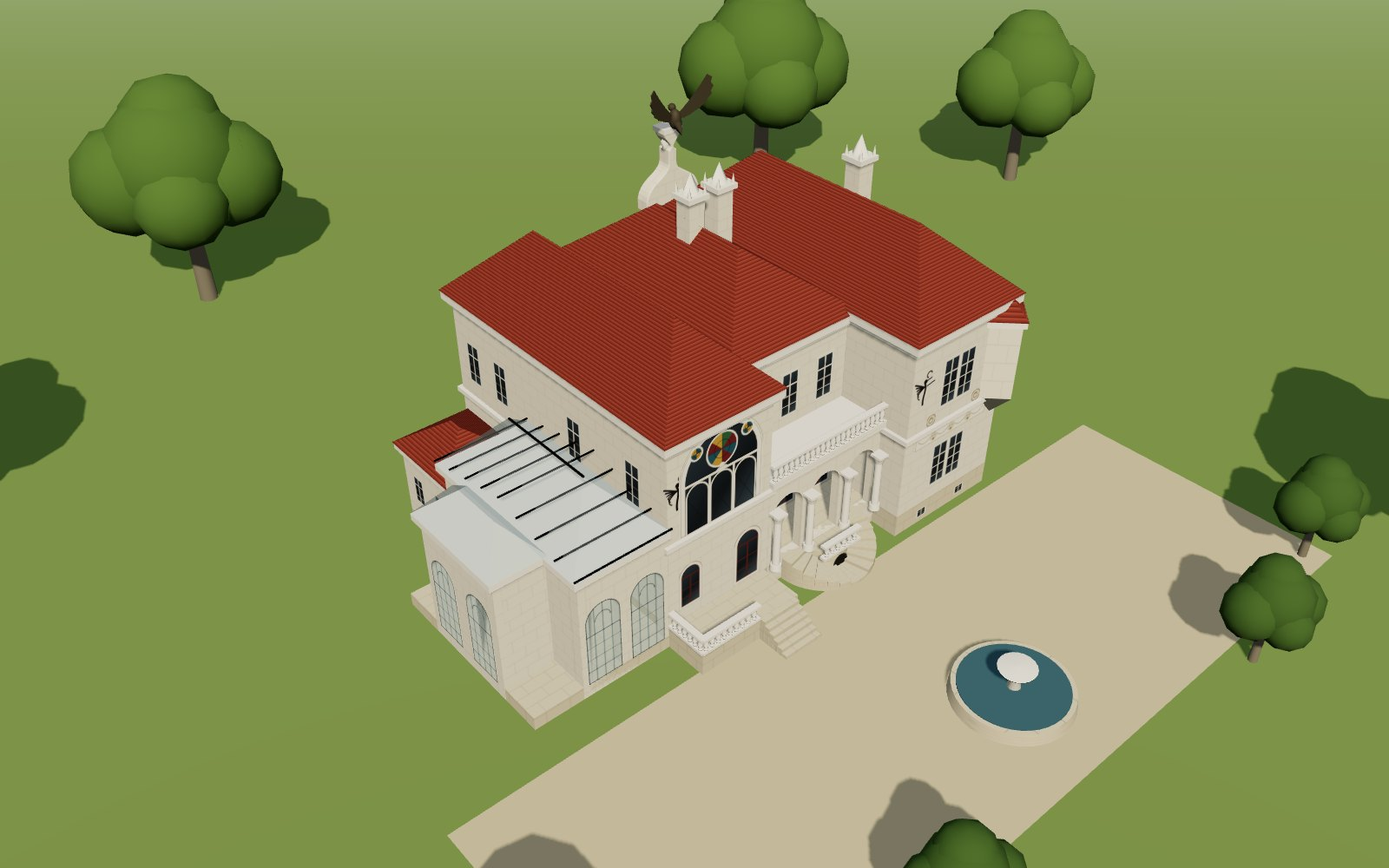
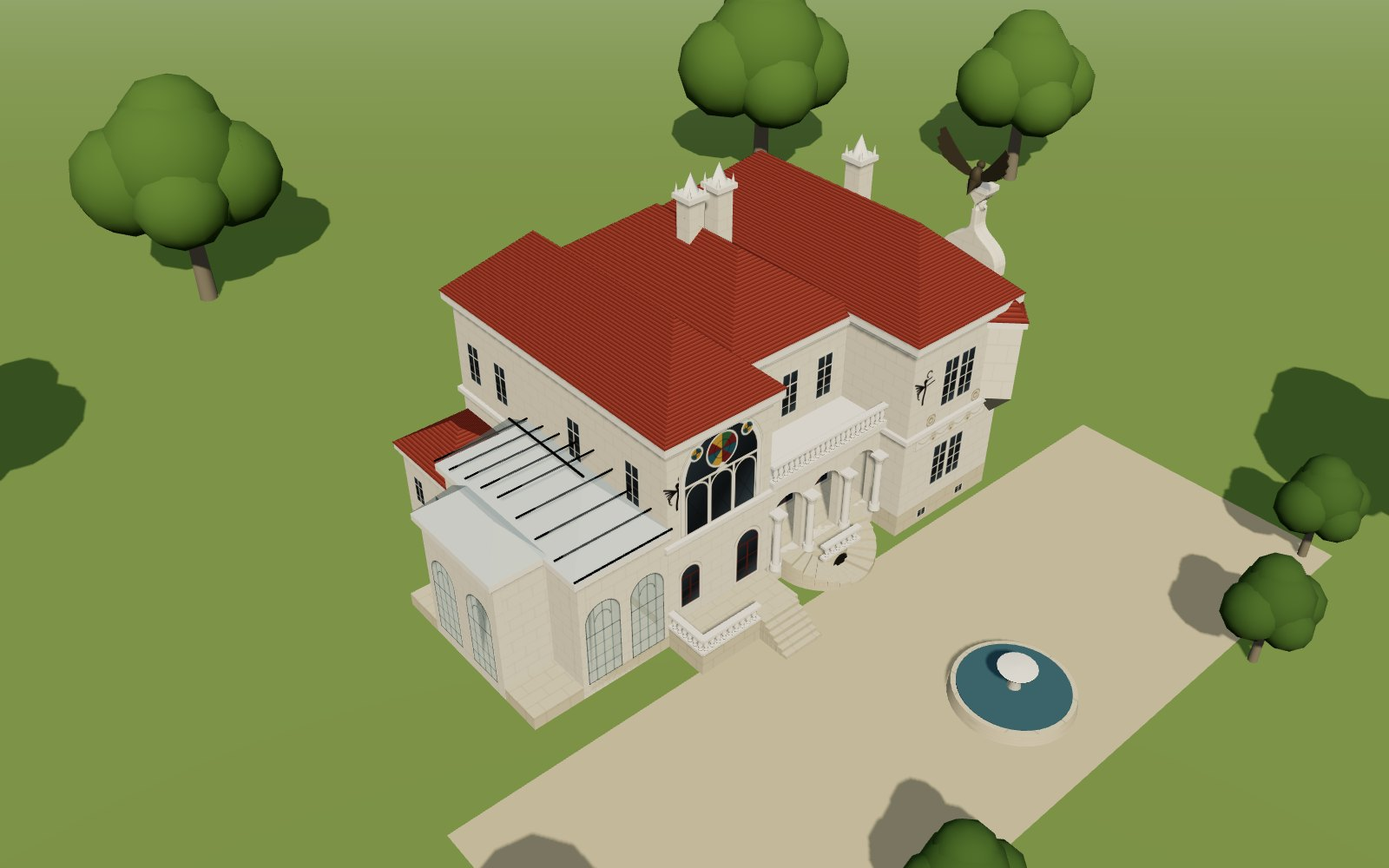
Spitzer Castle model: the turul gable and the two-column corner loggia on the end wall opposite the winter garden (west, per Kosta's photo; kastelyok.com agrees)
Claude-Session: https://claude.ai/code/session_01BcBFRJTimmEHvL6KXhfjLA

Changed region(s): [[0.4375, 0.093, 0.5312, 0.248], [0.6875, 0.186, 0.75, 0.31], [0.6562, 0.155, 0.6875, 0.186]]

diff --git a/static/js/spicer3d.js b/static/js/spicer3d.js
@@ -275,7 +275,8 @@ function build() {
   M.roof.map.repeat.set(1, 1);
 
   /* Footprint from the ground- and first-floor plans in Radosavljević (FTN Novi Sad, 2019), read at about
-     40 px = 1 m: x runs west -> east, z = 0 is the north (entrance) front, the service rooms lie to the south. */
+     40 px = 1 m. The plans are drawn with north at the bottom, so here z = 0 is the north (entrance) front, the service
+     rooms lie to the south, -x is east (winter garden) and +x is west (the turul end). */
 
   /* ground, forecourt, fountain, park trees */
   const ground = add(new THREE.Mesh(new THREE.CircleGeometry(420, 64), new THREE.MeshStandardMaterial({ color: '#7d9550', roughness: 1 })));
@@ -290,7 +291,7 @@ function build() {
 
   const ZS = -15.4, EAVE = 10.8;
 
-  /* west: the great hall, double-height, with the tracery window on the north front */
+  /* the great hall (east part), double-height, with the tracery window on the north front */
   box(-9.5, -3.75, 0, PL, ZS, 0, M.plinth); box(-9.5, -3.75, PL, EAVE + .3, ZS, 0);
   cornice(-9.5, -3.75, ZS, 0, EAVE + .3); hipRoof(-9.9, -3.35, ZS - .4, .4, EAVE + .3, 3.2);
   box(-9.7, -3.55, FL1 - .25, FL1, ZS - .2, .2, M.trim);
@@ -335,20 +336,43 @@ function build() {
   decal(doorDarkArch, 'dark', 128, .9, .8, 'n', sc.r0, sc.x, 0);
   balustrade(sc.x - 1.2, 1.3, sc.x + 1.0, 1.3, PL, .8);
 
-  /* east: the right wing, a little forward, with the frieze, iron dragons and the corner oriel */
-  box(3.4, 10, 0, PL, ZS, 1.5, M.plinth); box(3.4, 10, PL, FL1, ZS, 1.5);
-  box(3.4, 10, FL1, EAVE + .2, ZS + 2.6, 1.5); box(3.4, 7.0, FL1, EAVE + .2, ZS, ZS + 2.6);   // the upper floor leaves room for the corner loggia
-  box(9.6, 10, FL1, EAVE + .2, ZS + 2.3, ZS + 2.6);
-  cornice(3.4, 10, ZS, 1.5, EAVE + .2); hipRoof(3.0, 10.4, ZS - .4, 1.9, EAVE + .2, 3.4);
-  box(3.2, 10.2, FL1 - .25, FL1, ZS - .2, 1.7, M.trim);
+  /* the west wing, a little forward. Its end wall (opposite the winter garden) carries the
+     curved gable with the turul and, at 1st-floor level, an open loggia with two columns; the southern part of
+     that wall is set back a little (plans). */
+  const XE = 10, XR = 9.25, ZG = -8.6;
+  const ZL = ZS + 3.0;                                                       // north end of the corner loggia
+  box(3.4, XE, 0, PL, ZG, 1.5, M.plinth); box(3.4, XR, 0, PL, ZS, ZG, M.plinth);
+  box(3.4, XE, PL, FL1, ZG, 1.5); box(3.4, XR, PL, FL1, ZS, ZG);
+  box(3.4, XE, FL1, EAVE + .2, ZG, 1.5); box(3.4, XR, FL1, EAVE + .2, ZL, ZG);
+  box(3.4, 7.6, FL1, EAVE + .2, ZS, ZL);
+  cornice(3.4, XE, ZS, 1.5, EAVE + .2); hipRoof(3.0, 10.4, ZS - .4, 1.9, EAVE + .2, 3.4);
+  box(3.2, 10.2, FL1 - .25, FL1, ZG, 1.7, M.trim); box(3.2, XR + .2, FL1 - .25, FL1, ZS - .2, ZG, M.trim);
   decal(WP, 'wp', 512, 2.4, 2.6, 'n', 1.5, 6.6, PL + .7);
   decal(WP, 'wp', 512, 2.4, 2.8, 'n', 1.5, 6.6, FL1 + .7);
   decal(friezeDraw, 'frieze', 1024, 5.0, .7, 'n', 1.5, 6.6, FL1 - 1.05);
   for (const x of [5.0, 8.2]) decal(medallionDraw, 'med', 128, .6, .6, 'n', 1.5, x, FL1 + .05);
   decal(ironDraw, 'iron', 256, 1.6, 1.9, 'n', 1.5, 4.2, 7.3);
   for (const x of [5.2, 8.0]) decal(W1, 'w1', 256, .7, .45, 'n', 1.5, x, .35);
-  for (const z of [-1.6, -8.6, -12.4]) { decal(W1, 'w1', 256, 1.2, 2.4, 'e', 10, z, PL + .8); decal(W1, 'w1', 256, 1.2, 2.4, 'e', 10, z, FL1 + .8); }
-  decal(ironDraw, 'iron', 256, 1.5, 1.8, 'e', 10, -5.1, 7.3);
+  // east loggia
+  box(7.6, 7.65, FL1 + .3, EAVE - .4, ZS, ZL, M.dark);
+  box(7.6, XR + .1, FL1, FL1 + .3, ZS - .1, ZL, M.trim); box(7.6, XR + .1, EAVE - .45, EAVE + .2, ZS - .1, ZL, M.trim);
+  for (const z of [ZS + 1.5, ZS + .25]) column(XR - .3, z, FL1 + .3, EAVE - .45, .19);
+  decal(WH, 'wh', 256, 1.0, 2.4, 'e', 7.65, ZS + 1.6, FL1 + .5);
+  // windows and the oculus between the gable bay and the loggia
+  decal(W1, 'w1', 256, 1.1, 2.4, 'e', XE, -5.4, FL1 + .8); decal(WA, 'wa', 256, 1.1, 2.2, 'e', XE, -5.4, PL + .8);
+  { const oc = add(new THREE.Mesh(new THREE.TorusGeometry(.42, .1, 10, 28), M.trim)); oc.position.set(XR + .05, 8.0, -9.4); oc.rotation.y = Math.PI / 2;
+    const od = add(new THREE.Mesh(new THREE.CircleGeometry(.42, 28), M.dark)); od.position.set(XR + .03, 8.0, -9.4); od.rotation.y = Math.PI / 2; }
+  decal(W1, 'w1', 256, 1.1, 2.4, 'e', XR, -11.0, FL1 + .8); decal(WA, 'wa', 256, 1.1, 2.2, 'e', XR, -10.2, PL + .8);
+  decal(W1, 'w1', 256, 1.1, 2.3, 'e', XR, ZS + 1.4, PL + .8);
+  // the gable bay with the turul, built facing -z in a local frame and turned to face east
+  { const g = new THREE.Group(), main = scene; scene = g;
+    box(-1.6, 1.6, 0, PL, -1.0, 0, M.plinth); box(-1.6, 1.6, PL, EAVE - .2, -1.0, 0);
+    box(-1.85, 1.85, EAVE - .6, EAVE - .2, -1.25, 0, M.trim); box(-1.75, 1.75, FL1 - .25, FL1, -1.15, 0, M.trim);
+    const top = flemishGable(-1.6, 1.6, -1.0, EAVE - .2, .7, 1);
+    turul(0, top, -.75, Math.PI);
+    decal(WH, 'wh', 256, 1.1, 2.5, 's', -1.0, 0, FL1 + .7); decal(WA, 'wa', 256, 1.2, 2.3, 's', -1.0, 0, PL + .7);
+    decal(slitDraw, 'slit', 64, .4, 1.2, 's', -1.0, 0, EAVE + .9);
+    scene = main; g.rotation.y = -Math.PI / 2; g.position.set(XE, 0, -2.0); scene.add(g); }
   const ori = new THREE.Group(); scene.add(ori); ori.position.set(9.6, 0, 1.1); ori.rotation.y = Math.PI / 4;
   const ob = new THREE.Mesh(new THREE.BoxGeometry(2.1, 4.0, 2.1), M.wall); ob.position.y = FL1 + 2.0; ob.castShadow = true; ori.add(ob);
   const oc = new THREE.Mesh(new THREE.BoxGeometry(2.4, .35, 2.4), M.trim); oc.position.y = FL1 + 4.15; ori.add(oc);
@@ -357,28 +381,17 @@ function build() {
   { const t = texCache.get('w1') || canvasTex(256, 512, W1); texCache.set('w1', t);
     for (const r of [0, Math.PI / 2]) { const p = new THREE.Mesh(new THREE.PlaneGeometry(1.1, 2.4), new THREE.MeshStandardMaterial({ map: t, transparent: true })); p.rotation.y = r; p.position.set(Math.sin(r) * 1.07, FL1 + 2.1, Math.cos(r) * 1.07); ori.add(p); } }
 
-  /* south front: the bay with the curved gable and the turul, the corner loggia with two columns */
-  box(3.0, 6.4, 0, PL, ZS - 1.1, ZS, M.plinth); box(3.0, 6.4, PL, EAVE - .2, ZS - 1.1, ZS);
-  box(2.75, 6.65, EAVE - .6, EAVE - .2, ZS - 1.35, ZS, M.trim);
-  const top = flemishGable(3.0, 6.4, ZS - 1.1, EAVE - .2, .7, 1);
-  turul(4.7, top, ZS - .85, Math.PI);
-  decal(WH, 'wh', 256, 1.2, 2.5, 's', ZS - 1.1, 4.7, FL1 + .7); decal(WA, 'wa', 256, 1.3, 2.4, 's', ZS - 1.1, 4.7, PL + .6);
-  decal(slitDraw, 'slit', 64, .45, 1.3, 's', ZS - 1.1, 4.7, EAVE + .9);
-  box(7.0, 9.6, FL1 + .3, EAVE - .3, ZS + 2.55, ZS + 2.6, M.dark);                // recess of the loggia
-  for (const x of [7.7, 9.3]) column(x, ZS + .3, FL1 + .3, EAVE - .5, .19);
-  box(7.0, 10, FL1, FL1 + .3, ZS - .1, ZS + 2.6, M.trim); balustrade(7.1, ZS + .05, 9.9, ZS + .05, FL1 + .3, .9);
-  box(7.0, 10, EAVE - .5, EAVE + .2, ZS - .1, ZS + 2.6, M.trim);
-  for (const x of [7.6, 9.1]) decal(WH, 'wh', 256, 1.0, 2.4, 's', ZS + 2.6, x, FL1 + .5);
-  for (const x of [7.5, 9.0]) decal(WA, 'wa', 256, 1.2, 2.3, 's', ZS, x, PL + .6);
+  /* south front (service side) */
+  for (const x of [5.0, 7.0, 8.7]) { decal(W1, 'w1', 256, 1.0, 2.0, 's', ZS, x, PL + .8); decal(W1, 'w1', 256, 1.1, 2.3, 's', ZS, x, FL1 + .8); }
   const ocul = add(new THREE.Mesh(new THREE.TorusGeometry(.5, .11, 10, 28), M.trim)); ocul.position.set(1.9, 8.4, ZS - .05);
   chimney(-.5, -9, EAVE + 1.2, EAVE + 4.4); chimney(1.2, -9, EAVE + 1.2, EAVE + 4.4); chimney(7.2, -6, EAVE + 1.5, EAVE + 5.0);
 
-  /* kitchen wing: single-storey, south-west */
+  /* kitchen wing: single-storey, south-east */
   box(-13.4, -9.5, 0, .6, -14.9, -10.6, M.plinth); box(-13.4, -9.5, .6, 4.6, -14.9, -10.6);
   cornice(-13.4, -9.5, -14.9, -10.6, 4.6, .25, .35); hipRoof(-13.7, -9.5, -15.2, -10.3, 4.6, 1.4);
   for (const z of [-11.8, -13.7]) decal(W1, 'w1', 256, .9, 1.6, 'w', -13.4, z, 1.6);
 
-  /* winter garden: single-storey glass house on the west, narrower than the house, with a bay at its far end */
+  /* winter garden: single-storey glass house on the east, narrower than the house, with a bay at its far end */
   const wgH = 6.4;
   const gA = (n, len, w) => Array.from({ length: n }, (_, i) => ({ x: len * (i + .5) / n, w, y0: .7, spring: 4.0 }));
   box(-16.6, -9.5, 0, .7, -9.6, 0, M.plinth);
@@ -404,11 +417,11 @@ function build() {
 /* ---------------------------------------------------------------- viewer */
 const VIEWS = {
   front: [[-1, 9, 42], [-2, 6, -6]],
-  back: [[10, 10, -52], [-1, 7, -8]],
+  back: [[44, 11, -12], [8, 7, -6]],
   air: [[-34, 40, 30], [-2, 4, -7]],
   west: [[-50, 10, 6], [-10, 5, -6]],
   east: [[44, 11, 0], [8, 6, -7]],
-  turul: [[10, 15, -32], [4.7, 13, -16]],
+  turul: [[27, 15, -4], [10.5, 13, -2.0]],
 };
 export function init(el) {
   const canvas = el.querySelector('canvas');

diff --git a/content/ru/nearby/spicer-castle-reconstruction.md b/content/ru/nearby/spicer-castle-reconstruction.md
@@ -30,9 +30,9 @@ photo: spicer-reconstruction-front
 
 - Планы в работе ФТН показывают дворец в нынешнем виде, начерченный для проекта приспособления, так что в них могут быть и поздние переделки. Мы снимали размеры в масштабе около 40 пикселей на метр, поэтому стены могут сместиться на полметра; высоты оценены по фотографиям.
 - Вальмовые крыши и красная черепица типичны для вилл того времени, но точная форма крыш неизвестна.
-- Зимний сад: по планам это одноэтажное крыло, у́же самого дворца, с эркером в торце. Известно, что он был застеклён и открывался из зала; арки и стеклянная крыша в модели — допущение (проект приспособления предлагает новую стеклянную крышу, то есть сейчас её нет). Маленькая пристройка с западной стороны, вероятно времён социализма, в модель не включена.
+- Зимний сад: по планам это одноэтажное крыло, у́же самого дворца, с эркером в торце. Известно, что он был застеклён и открывался из зала; арки и стеклянная крыша в модели — допущение (проект приспособления предлагает новую стеклянную крышу, то есть сейчас её нет). Маленькая пристройка к его торцу, вероятно времён социализма, в модель не включена.
 - Цвета витражей, переплёты окон, фонтан перед фасадом и деревья добавлены для наглядности.
-- Magyar Szó пишет, что турул смотрит на север, к Дунаю, но на фотографиях он стоит со стороны парка, напротив северного входного фасада, рядом с лоджией с двумя колоннами. Модель следует фотографиям.
+- Magyar Szó пишет, что турул смотрит на север, к Дунаю, но на фотографиях он стоит над западной торцевой стеной, напротив зимнего сада, а рядом угловая лоджия с двумя колоннами; kastelyok.com тоже помещает его на западный фасад ([kastelyok.com](https://www.kastelyok.com/adatlap.php?details=8061)). Модель следует фотографиям.
 
 {{< photos "spicer-reconstruction-air spicer-reconstruction-back" >}}
 

diff --git a/content/cyr/nearby/spicer-castle-reconstruction.md b/content/cyr/nearby/spicer-castle-reconstruction.md
@@ -32,9 +32,9 @@ photo: spicer-reconstruction-front
 
 - Планови у раду са ФТН-а приказују дворац какав је данас, нацртан за пројекат адаптације, па могу да садрже и касније измене. Очитали смо их у размери од око 40 пиксела на метар, па зидови могу да одступају за пола метра; висине су процењене по фотографијама.
 - Четвороводни кровови и црвени цреп типични су за виле тог доба, али тачан облик кровова није познат.
-- Зимска башта: према плановима то је приземно крило, уже од куће, са еркером на крају. Зна се да је била застакљена и да се отварала из хола; лукови и стаклени кров у моделу су претпоставка (пројекат адаптације предлаже нови стаклени кров, дакле данас га нема). Мала просторија дозидана уз њу са западне стране, вероватно у социјализму, изостављена је.
+- Зимска башта: према плановима то је приземно крило, уже од куће, са еркером на крају. Зна се да је била застакљена и да се отварала из хола; лукови и стаклени кров у моделу су претпоставка (пројекат адаптације предлаже нови стаклени кров, дакле данас га нема). Мала просторија дозидана уз њен крај, вероватно у социјализму, изостављена је.
 - Боје витража, пречке на прозорима, фонтана испред фасаде и дрвеће ту су да слика буде читљива.
-- Magyar Szó пише да турул гледа на север, ка Дунаву, али на фотографијама он стоји на страни према парку, насупрот северној улазној фасади, поред ложе са два стуба. Модел прати фотографије.
+- Magyar Szó пише да турул гледа на север, ка Дунаву, али на фотографијама он стоји изнад западног чеоног зида, насупрот зимској башти, а поред њега је угаона ложа са два стуба; и kastelyok.com га смешта на западну фасаду ([kastelyok.com](https://www.kastelyok.com/adatlap.php?details=8061)). Модел прати фотографије.
 
 {{< photos "spicer-reconstruction-air spicer-reconstruction-back" >}}
 

diff --git a/content/de/nearby/spicer-castle-reconstruction.md b/content/de/nearby/spicer-castle-reconstruction.md
@@ -30,9 +30,9 @@ Heute ist das Spitzer-Schloss eine Ruine mit zerbrochenen Fenstern, undichtem Da
 
 - Die Pläne in der FTN-Arbeit zeigen das Haus im heutigen Zustand, gezeichnet für ein Umnutzungsprojekt, sie können also spätere Umbauten enthalten. Wir haben sie mit etwa 40 Pixeln pro Meter gelesen, Wände können daher einen halben Meter abweichen; die Höhen sind nach Fotos geschätzt.
 - Walmdächer und rote Ziegel sind typisch für Villen jener Zeit, die genauen Dachformen sind aber unbekannt.
-- Der Wintergarten: Laut den Plänen ist er ein eingeschossiger Flügel, schmaler als das Haus, mit einem Erker am Ende. Bekannt ist, dass er verglast war und sich von der Halle aus öffnete; Bögen und Glasdach im Modell sind eine Annahme (das Umnutzungsprojekt schlägt ein neues Glasdach vor, heute hat er also keines). Ein kleiner Anbau an der Westseite, vermutlich aus sozialistischer Zeit, ist weggelassen.
+- Der Wintergarten: Laut den Plänen ist er ein eingeschossiger Flügel, schmaler als das Haus, mit einem Erker am Ende. Bekannt ist, dass er verglast war und sich von der Halle aus öffnete; Bögen und Glasdach im Modell sind eine Annahme (das Umnutzungsprojekt schlägt ein neues Glasdach vor, heute hat er also keines). Ein kleiner Anbau an seinem Ende, vermutlich aus sozialistischer Zeit, ist weggelassen.
 - Die Farben der Buntglasfenster, die Fenstersprossen, der Brunnen vor der Fassade und die Bäume dienen der Anschaulichkeit.
-- Magyar Szó schreibt, der Turul blicke nach Norden zur Donau, auf den Fotos steht er aber auf der Parkseite, gegenüber der nördlichen Eingangsfront, neben der Loggia mit zwei Säulen. Das Modell folgt den Fotos.
+- Magyar Szó schreibt, der Turul blicke nach Norden zur Donau, auf den Fotos steht er aber über der westlichen Stirnwand, dem Wintergarten gegenüber, daneben eine Eckloggia mit zwei Säulen; auch kastelyok.com verortet ihn an der Westfassade ([kastelyok.com](https://www.kastelyok.com/adatlap.php?details=8061)). Das Modell folgt den Fotos.
 
 {{< photos "spicer-reconstruction-air spicer-reconstruction-back" >}}
 

diff --git a/content/hu/nearby/spicer-castle-reconstruction.md b/content/hu/nearby/spicer-castle-reconstruction.md
@@ -30,9 +30,9 @@ Ma a Spitzer-kastély rom, betört ablakokkal, beázó tetővel és graffitikkel
 
 - Az FTN-dolgozat tervrajzai a mai állapotot mutatják egy átalakítási terv számára, így későbbi átépítések is lehetnek rajtuk. Méterenként körülbelül 40 képpontos léptékkel olvastuk le őket, a falak tehát fél méterrel is eltérhetnek; a magasságokat fényképekről becsültük.
 - A kontytetők és a piros cserép jellemzők a kor villáira, de a pontos tetőformák ismeretlenek.
-- A télikert: a tervrajzok szerint földszintes szárny, keskenyebb a háznál, a végén zárt erkéllyel. Tudjuk, hogy üvegezett volt és a csarnokból nyílt; ívei és üvegteteje a modellben feltételezés (az átalakítási terv új üvegtetőt javasol, ma tehát nincs teteje). A nyugati oldalához épített kis helyiséget, amely valószínűleg a szocializmus idején készült, kihagytuk.
+- A télikert: a tervrajzok szerint földszintes szárny, keskenyebb a háznál, a végén zárt erkéllyel. Tudjuk, hogy üvegezett volt és a csarnokból nyílt; ívei és üvegteteje a modellben feltételezés (az átalakítási terv új üvegtetőt javasol, ma tehát nincs teteje). A végéhez épített kis helyiséget, amely valószínűleg a szocializmus idején készült, kihagytuk.
 - A színes üvegek színei, az ablakosztások, a homlokzat előtti szökőkút és a fák a szemléletesség kedvéért kerültek a modellbe.
-- A Magyar Szó szerint a turul északra, a Duna felé néz, a fényképeken azonban a park felőli oldalon áll, az északi bejárati homlokzattal szemben, a kétoszlopos loggia mellett. A modell a fényképeket követi.
+- A Magyar Szó szerint a turul északra, a Duna felé néz, a fényképeken azonban a nyugati véghomlokzat fölött áll, a télikerttel szemben, mellette kétoszlopos sarokloggia; a kastelyok.com is a nyugati homlokzatra teszi ([kastelyok.com](https://www.kastelyok.com/adatlap.php?details=8061)). A modell a fényképeket követi.
 
 {{< photos "spicer-reconstruction-air spicer-reconstruction-back" >}}
 

diff --git a/content/en/nearby/spicer-castle-reconstruction.md b/content/en/nearby/spicer-castle-reconstruction.md
@@ -30,9 +30,9 @@ Today Spitzer Castle is a ruin with broken windows, a leaking roof and graffiti 
 
 - The plans in the FTN paper show the house as it is now, drawn for an adaptation project, so later changes may be in them. We read them at about 40 pixels to a metre, so walls can be half a metre out; the heights are estimated from photographs.
 - The hipped roofs and red tiles are typical of villas of the time, but the exact roof shapes are unknown.
-- The winter garden: according to the plans it is a single-storey wing, narrower than the house, with a bay at its far end. That it was glazed and opened off the hall is known; its arches and glass roof in the model are an assumption (the adaptation project proposes a new glass roof, so today it has none). A small room built on to it on the west side, probably in socialist times, is left out.
+- The winter garden: according to the plans it is a single-storey wing, narrower than the house, with a bay at its far end. That it was glazed and opened off the hall is known; its arches and glass roof in the model are an assumption (the adaptation project proposes a new glass roof, so today it has none). A small room built on to its far end, probably in socialist times, is left out.
 - The colours of the stained glass, the window bars, the fountain in front of the facade and the trees are there to make the picture readable.
-- Magyar Szó writes that the turul faces north towards the Danube, but in the photographs it stands on the garden side, opposite the north entrance front, next to the loggia with two columns. The model follows the photographs.
+- Magyar Szó writes that the turul faces north towards the Danube, but in the photographs it stands above the west end wall, opposite the winter garden, with a corner loggia with two columns beside it; kastelyok.com also places it on the western facade ([kastelyok.com](https://www.kastelyok.com/adatlap.php?details=8061)). The model follows the photographs.
 
 {{< photos "spicer-reconstruction-air spicer-reconstruction-back" >}}
 

diff --git a/content/sr/nearby/spicer-castle-reconstruction.md b/content/sr/nearby/spicer-castle-reconstruction.md
@@ -31,9 +31,9 @@ Danas je Dvorac Špicerovih ruševina bez stakala, sa krovom koji prokišnjava i
 
 - Planovi u radu sa FTN-a prikazuju dvorac kakav je danas, nacrtan za projekat adaptacije, pa mogu da sadrže i kasnije izmene. Očitali smo ih u razmeri od oko 40 piksela na metar, pa zidovi mogu da odstupaju za pola metra; visine su procenjene po fotografijama.
 - Četvorovodni krovovi i crveni crep tipični su za vile tog doba, ali tačan oblik krovova nije poznat.
-- Zimska bašta: prema planovima to je prizemno krilo, uže od kuće, sa erkerom na kraju. Zna se da je bila zastakljena i da se otvarala iz hola; lukovi i stakleni krov u modelu su pretpostavka (projekat adaptacije predlaže novi stakleni krov, dakle danas ga nema). Mala prostorija dozidana uz nju sa zapadne strane, verovatno u socijalizmu, izostavljena je.
+- Zimska bašta: prema planovima to je prizemno krilo, uže od kuće, sa erkerom na kraju. Zna se da je bila zastakljena i da se otvarala iz hola; lukovi i stakleni krov u modelu su pretpostavka (projekat adaptacije predlaže novi stakleni krov, dakle danas ga nema). Mala prostorija dozidana uz njen kraj, verovatno u socijalizmu, izostavljena je.
 - Boje vitraža, prečke na prozorima, fontana ispred fasade i drveće tu su da slika bude čitljiva.
-- Magyar Szó piše da turul gleda na sever, ka Dunavu, ali na fotografijama on stoji na strani prema parku, nasuprot severnoj ulaznoj fasadi, pored lože sa dva stuba. Model prati fotografije.
+- Magyar Szó piše da turul gleda na sever, ka Dunavu, ali na fotografijama on stoji iznad zapadnog čeonog zida, nasuprot zimskoj bašti, a pored njega je ugaona loža sa dva stuba; i kastelyok.com ga smešta na zapadnu fasadu ([kastelyok.com](https://www.kastelyok.com/adatlap.php?details=8061)). Model prati fotografije.
 
 {{< photos "spicer-reconstruction-air spicer-reconstruction-back" >}}
 
